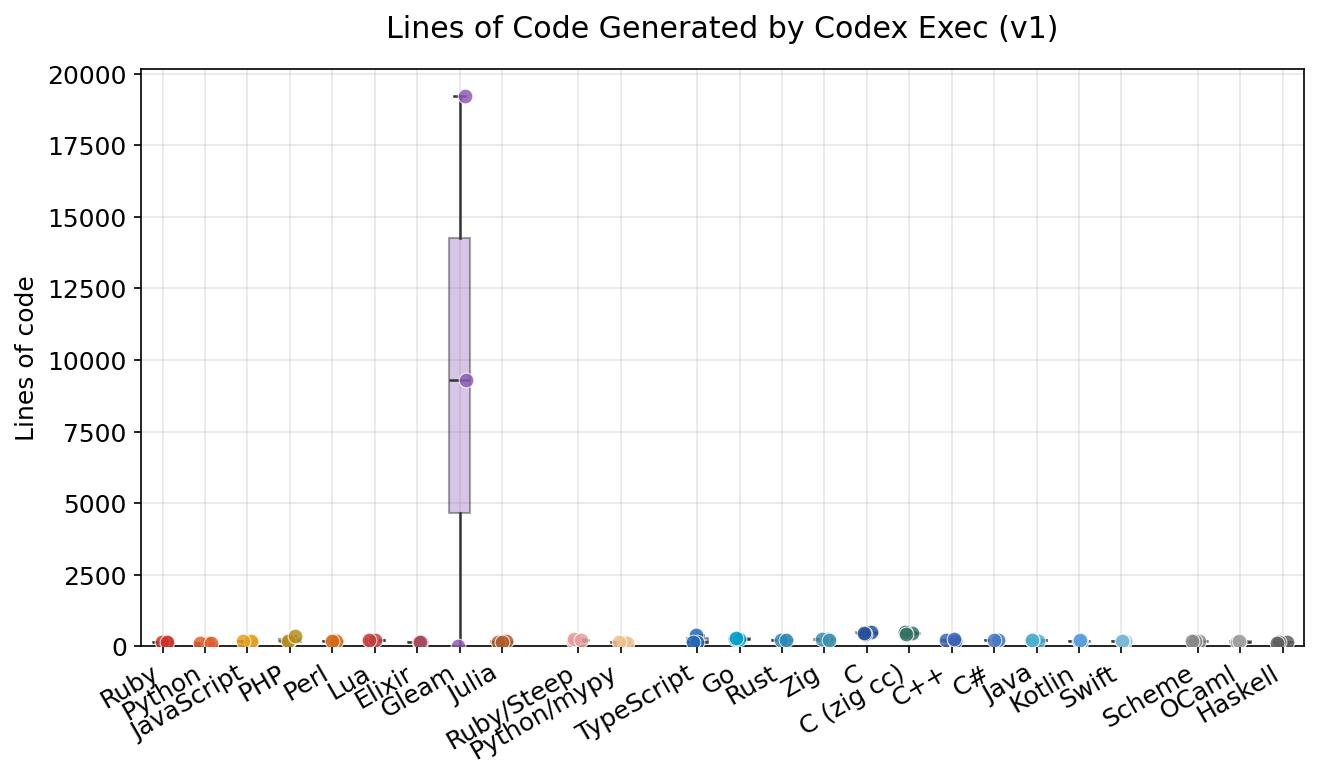
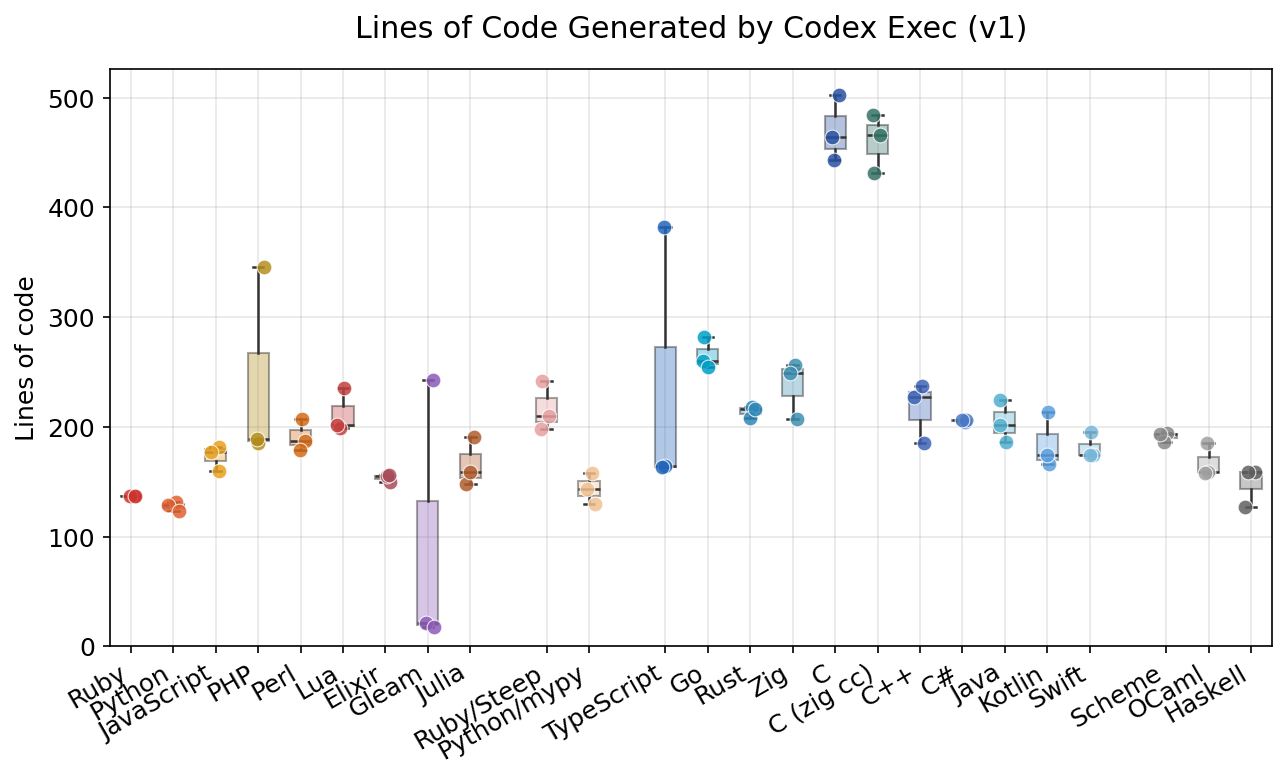
fix: correct gleam loc accounting in benchmark outputs

diff --git a/benchmark.rb b/benchmark.rb
@@ -171,7 +171,12 @@ def count_loc(dir, lang)
   config = LANGUAGES[lang]
   exts = config[:exts]
   files = exts.flat_map { |e| Dir.glob(File.join(dir, '**', "*.#{e}")) }
-  files.reject! { |f| f.include?('/node_modules/') || f.include?('/target/') }
+  ignored_paths = %w[/node_modules/ /target/]
+  if lang == 'gleam'
+    # Gleam writes vendored/generated `.gleam` files under build/template dirs.
+    ignored_paths.concat(%w[/build/ /.tmp_gleam_template/ /_template/])
+  end
+  files.reject! { |f| ignored_paths.any? { |path| f.include?(path) } }
 
   # For scripting languages the executable `minigit` IS the source (no extension)
   minigit = File.join(dir, 'minigit')

diff --git a/results/report.md b/results/report.md
@@ -56,7 +56,7 @@
 | Zig | 120.3s±8.3s | 1.0 | 237 | 3/3 | 125.5s±35.4s | 1.0 | 455 | 3/3 | 245.8s±40.4s | $4.47 |
 | Lua | 66.2s±3.7s | 1.0 | 212 | 3/3 | 69.9s±29.9s | 1.0 | 378 | 3/3 | 136.1s±32.2s | $1.71 |
 | Elixir | 57.5s±7.5s | 1.0 | 154 | 3/3 | 94.8s±23.9s | 1.0 | 291 | 3/3 | 152.3s±17.1s | $2.40 |
-| Gleam | 261.8s±68.6s | 1.0 | 9513 | 3/3 | 235.0s±29.9s | 1.0 | 9569 | 3/3 | 496.8s±58.5s | $11.98 |
+| Gleam | 261.8s±68.6s | 1.0 | 94 | 3/3 | 235.0s±29.9s | 1.0 | 150 | 3/3 | 496.8s±58.5s | $11.98 |
 | Julia | 80.5s±14.2s | 1.0 | 166 | 3/3 | 87.6s±20.1s | 1.0 | 280 | 3/3 | 168.1s±17.5s | $2.37 |
 | PHP | 74.7s±6.4s | 1.0 | 240 | 3/3 | 70.0s±8.1s | 1.0 | 417 | 3/3 | 144.6s±13.8s | $1.89 |
 | Scheme | 89.6s±29.9s | 1.0 | 191 | 3/3 | 59.6s±6.7s | 1.0 | 326 | 3/3 | 149.2s±32.9s | $2.08 |
@@ -139,7 +139,7 @@
 | Zig | 2 | 119.8s | 1 | 249 | 11/11 PASS | 159.0s | 1 | 483 | 30/30 PASS | 278.8s | $4.87 |
 | Lua | 2 | 69.3s | 1 | 235 | 11/11 PASS | 65.4s | 1 | 372 | 30/30 PASS | 134.7s | $1.55 |
 | Elixir | 2 | 62.0s | 1 | 155 | 11/11 PASS | 73.3s | 1 | 288 | 30/30 PASS | 135.3s | $1.75 |
-| Gleam | 2 | 313.4s | 1 | 9303 | 11/11 PASS | 200.8s | 1 | 9304 | 30/30 PASS | 514.2s | $10.28 |
+| Gleam | 2 | 313.4s | 1 | 18 | 11/11 PASS | 200.8s | 1 | 19 | 30/30 PASS | 514.2s | $10.28 |
 | Julia | 2 | 72.1s | 1 | 148 | 11/11 PASS | 110.8s | 1 | 253 | 30/30 PASS | 182.9s | $2.78 |
 | PHP | 2 | 73.3s | 1 | 189 | 11/11 PASS | 73.7s | 1 | 366 | 30/30 PASS | 147.0s | $2.03 |
 | Scheme | 2 | 76.4s | 1 | 186 | 11/11 PASS | 51.8s | 1 | 293 | 30/30 PASS | 128.2s | $1.89 |
@@ -164,7 +164,7 @@
 | Zig | 3 | 112.3s | 1 | 207 | 11/11 PASS | 88.5s | 1 | 424 | 30/30 PASS | 200.8s | $3.81 |
 | Lua | 3 | 62.1s | 1 | 202 | 11/11 PASS | 42.5s | 1 | 361 | 30/30 PASS | 104.6s | $1.24 |
 | Elixir | 3 | 61.7s | 1 | 156 | 11/11 PASS | 90.5s | 1 | 302 | 30/30 PASS | 152.2s | $2.35 |
-| Gleam | 3 | 288.1s | 1 | 19214 | 11/11 PASS | 256.5s | 1 | 19381 | 30/30 PASS | 544.6s | $19.17 |
+| Gleam | 3 | 288.1s | 1 | 243 | 11/11 PASS | 256.5s | 1 | 410 | 30/30 PASS | 544.6s | $19.17 |
 | Julia | 3 | 72.5s | 1 | 159 | 11/11 PASS | 76.3s | 1 | 275 | 30/30 PASS | 148.8s | $1.92 |
 | PHP | 3 | 69.1s | 1 | 346 | 11/11 PASS | 60.7s | 1 | 523 | 30/30 PASS | 129.8s | $2.12 |
 | Scheme | 3 | 68.6s | 1 | 193 | 11/11 PASS | 63.7s | 1 | 334 | 30/30 PASS | 132.3s | $1.80 |

diff --git a/README.md b/README.md
@@ -8,12 +8,14 @@ The task is a two-phase "MiniGit" exercise:
 
 The current checked-in results are a March 2026 snapshot:
 - runner: Codex Exec (`codex-cli 0.111.0`)
+- model: `gpt-5.4`
+- reasoning effort: `medium`
 - service tier: `fast`
 - trials: `3` per language
 - configurations: `25`
 - toolchains: see [results/meta.json](./results/meta.json)
 
-The benchmark currently inherits model selection from local Codex config rather than pinning a model in the benchmark command.
+These checked-in results were run with `gpt-5.4` at `medium` reasoning effort. The benchmark command itself still inherits model settings from local Codex config unless you pin them explicitly.
 
 ## TL;DR
 
